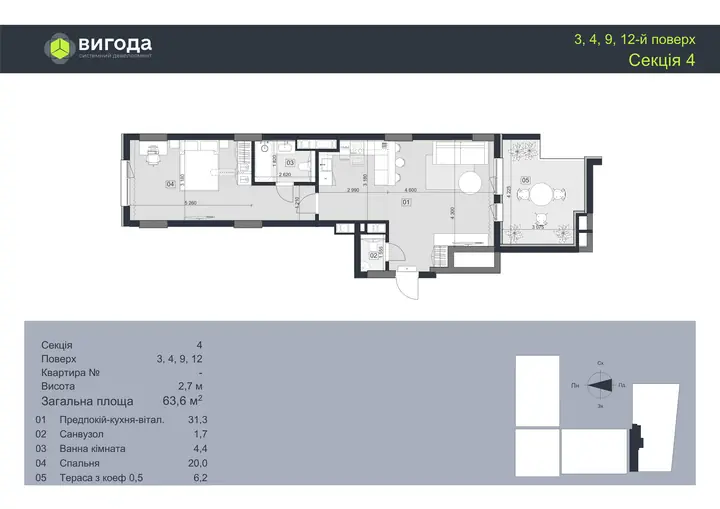
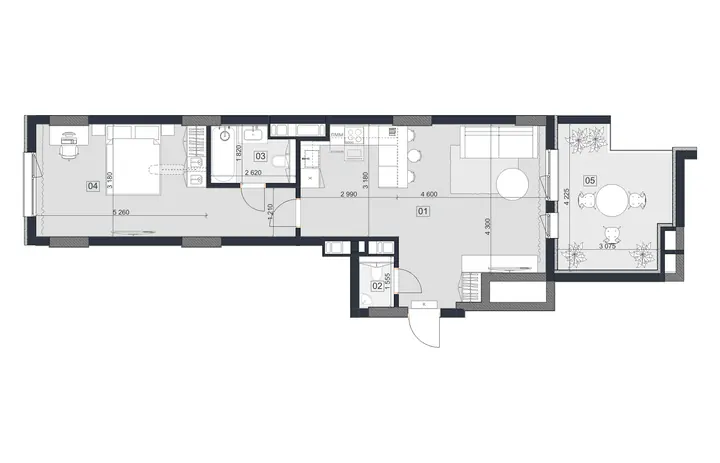
fix(apartments): crop В-2.1 plan for the card, keep full plan with legend on zoom
Visual QA in the real grid showed the raw ARCHICAD export read as a broken card
next to the other nine: a black "Вигода" header bar across the top, a heavy grey
info block, and the drawing itself shrunk to ~40% of the frame and illegible.

Card image is now cropped to the drawing only and reframed to 1600x1029 — the
same aspect the other plans use — so it sits in the row instead of fighting it.
The remaining difference (grey palette, no right-hand info panel) is inherent to
the architect's template and is left alone; an on-template redraw stays a
separate task.

Cropping the legend away would have orphaned the 01–05 room markers printed on
the drawing, so the zoom now loads a separate -full.jpg that keeps the legend,
areas, height, compass and section locator. openPlanLb() reads an optional
data-plan-full off the card and falls back to the card image, so the other nine
cards are untouched (verified: they still open their own jpg).

Verified at 1440x900 and 390x844/DPR3: correct srcset pick, no horizontal
overflow, promo badge and $94 764 intact, markup dims match the real file.

diff --git a/index.html b/index.html
@@ -1488,8 +1488,8 @@ input:user-invalid:focus,select:user-invalid:focus,textarea:user-invalid:focus{o
         <div class="pc-b"><h3>53.19 м²</h3><span>Секція 1 · поверх 10</span></div>
         <div class="pc-f"><span class="pc-price">$87 763,50</span><button type="button" class="pc-link" onclick="event.stopPropagation();openApt(this)">Дізнатись деталі →</button></div>
       </div>
-      <div class="pc rv rv3" data-type="1k" onclick="openApt(this)">
-        <div class="pc-img"><picture><source type="image/avif" srcset="img/plans/s4-177-1k-63m2-720.avif 720w, img/plans/s4-177-1k-63m2.avif 1600w" sizes="(max-width:768px) 100vw, 360px"><source type="image/webp" srcset="img/plans/s4-177-1k-63m2-720.webp 720w, img/plans/s4-177-1k-63m2.webp 1600w" sizes="(max-width:768px) 100vw, 360px"><img src="img/plans/s4-177-1k-63m2.jpg" alt="1-кімнатна 63.6 м², секція 4" width="1600" height="1131" loading="lazy"></picture><div class="pc-promo">★ Акційна ціна</div><div class="pc-badge">1-кімнатна</div><button type="button" class="pc-zoom" aria-label="Збільшити план квартири" onclick="event.stopPropagation();openPlanLb(event,this.closest('.pc'))"><svg viewBox="0 0 24 24" fill="none" stroke="currentColor" stroke-width="2" stroke-linecap="round" stroke-linejoin="round" aria-hidden="true"><circle cx="11" cy="11" r="8"/><path d="m21 21-4.3-4.3"/><path d="M11 8v6"/><path d="M8 11h6"/></svg></button></div>
+      <div class="pc rv rv3" data-type="1k" data-plan-full="img/plans/s4-177-1k-63m2-full.jpg" onclick="openApt(this)">
+        <div class="pc-img"><picture><source type="image/avif" srcset="img/plans/s4-177-1k-63m2-720.avif 720w, img/plans/s4-177-1k-63m2.avif 1600w" sizes="(max-width:768px) 100vw, 360px"><source type="image/webp" srcset="img/plans/s4-177-1k-63m2-720.webp 720w, img/plans/s4-177-1k-63m2.webp 1600w" sizes="(max-width:768px) 100vw, 360px"><img src="img/plans/s4-177-1k-63m2.jpg" alt="1-кімнатна 63.6 м², секція 4" width="1600" height="1029" loading="lazy"></picture><div class="pc-promo">★ Акційна ціна</div><div class="pc-badge">1-кімнатна</div><button type="button" class="pc-zoom" aria-label="Збільшити план квартири" onclick="event.stopPropagation();openPlanLb(event,this.closest('.pc'))"><svg viewBox="0 0 24 24" fill="none" stroke="currentColor" stroke-width="2" stroke-linecap="round" stroke-linejoin="round" aria-hidden="true"><circle cx="11" cy="11" r="8"/><path d="m21 21-4.3-4.3"/><path d="M11 8v6"/><path d="M8 11h6"/></svg></button></div>
         <div class="pc-b"><h3>63.6 м²</h3><span>Секція 4 · поверх 3</span></div>
         <div class="pc-f"><span class="pc-price promo">$94 764</span><button type="button" class="pc-link" onclick="event.stopPropagation();openApt(this)">Дізнатись деталі →</button></div>
       </div>
@@ -2783,7 +2783,10 @@ function openPlanLb(e,card){
   var area=card.querySelector('.pc-b h3').textContent;
   var info=card.querySelector('.pc-b span').textContent;
   var badge=card.querySelector('.pc-badge').textContent;
-  openPlanLbDirect(img.src,img.alt,badge+' · '+area,info);
+  /* Cards may ship a separate full-detail plan for the zoom view (e.g. the card
+     thumbnail is cropped to the drawing, while the zoom keeps the room legend).
+     Falls back to the card image when data-plan-full is absent. */
+  openPlanLbDirect(card.dataset.planFull||img.src,img.alt,badge+' · '+area,info);
 }
 function openPlanLbDirect(src,alt,title,sub){
   document.getElementById('planLbImg').src=src;
